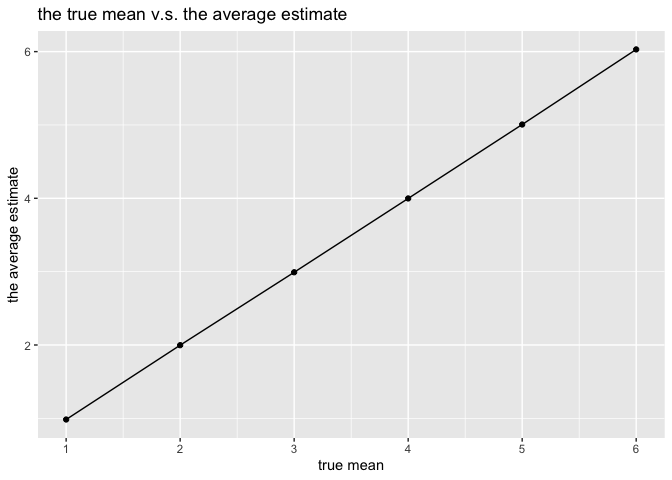
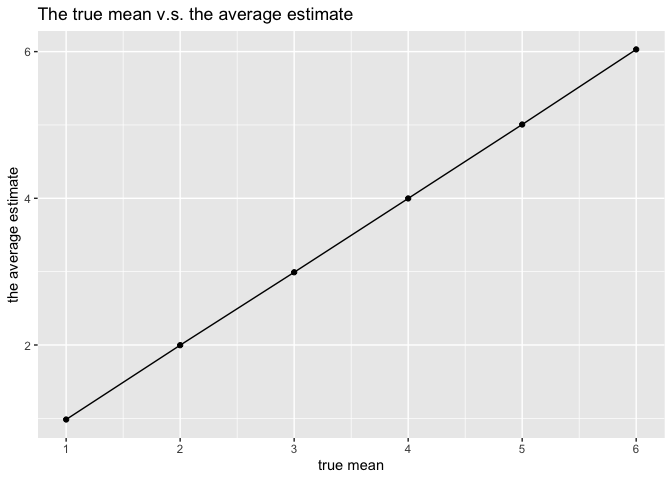
cleaned up and final version

Changed region(s): [[0.0625, 0.0, 0.5312, 0.0625]]

diff --git a/P8105_hw5_qx2222.md b/P8105_hw5_qx2222.md
@@ -134,7 +134,7 @@ homicide
     ## #   ¹reported_date, ²victim_last, ³victim_first, ⁴victim_race, ⁵victim_age,
     ## #   ⁶victim_sex
 
-\###Summarized table
+### Summarized table
 
 ``` r
 homicide_table = homicide %>%
@@ -297,7 +297,7 @@ cities_final %>%
 | Tulsa, OK          | 0.3310463 |              0.2932349 |               0.3711192 |
 | Washington, DC     | 0.4379182 |              0.4112495 |               0.4649455 |
 
-### Create plot
+### Create plot (shows the estimates and 95% CIs for each city)
 
 ``` r
 plot_cities = cities_final %>%
@@ -345,7 +345,7 @@ ttest_function = function(n = 30, sd = 5, mu = 0) {
 }
 ```
 
-### Generate 5000 datasets from the model
+### Generate datasets use the function
 
 ``` r
 prob3_df = 
@@ -410,7 +410,7 @@ mean_estimate_plot = prob3_diffmean %>%
   geom_path() +
   scale_x_continuous(breaks = 1:6)+
   labs(x = "true mean", y = "the average estimate",
-       title = "the true mean v.s. the average estimate")
+       title = "The true mean v.s. the average estimate")
 
 mean_estimate_plot
 ```
@@ -427,7 +427,7 @@ ggsave(
   ) #export plot to 'results' directory
 ```
 
-### make a second plot (the average estimate of μ̂ only in samples for which the null was rejected on the y axis and the true value of μ on the x axis)
+### Make a second plot (the average estimate of μ̂ only in samples for which the null was rejected on the y axis and the true value of μ on the x axis)
 
 ``` r
 rejected = prob3_diffmean %>%
@@ -448,7 +448,7 @@ overlay_plot = ggplot(all_estimates, aes(x = mean, y = average_estimate)) +
                       values = c("orange" ="orange", "blue" = "blue"),
                       labels = c("All", "Rejected"))+
   labs(x = "true mean", y = "the average estimate",
-       title = "the true mean v.s. the average estimate")
+       title = "The true mean v.s. the average estimate")
   
 overlay_plot 
 ```
